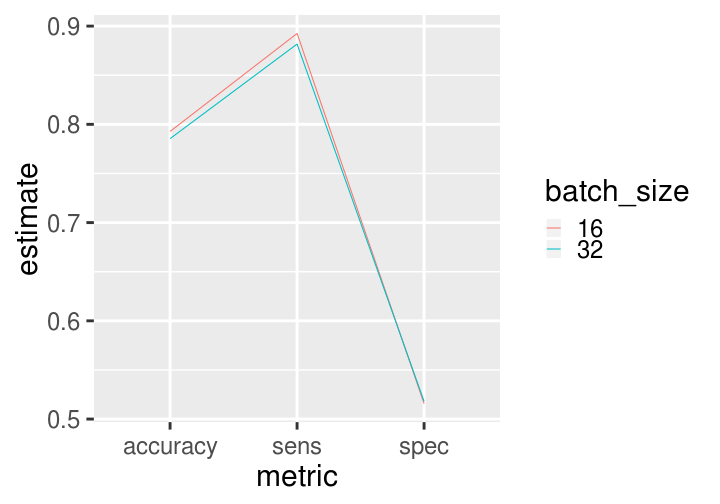
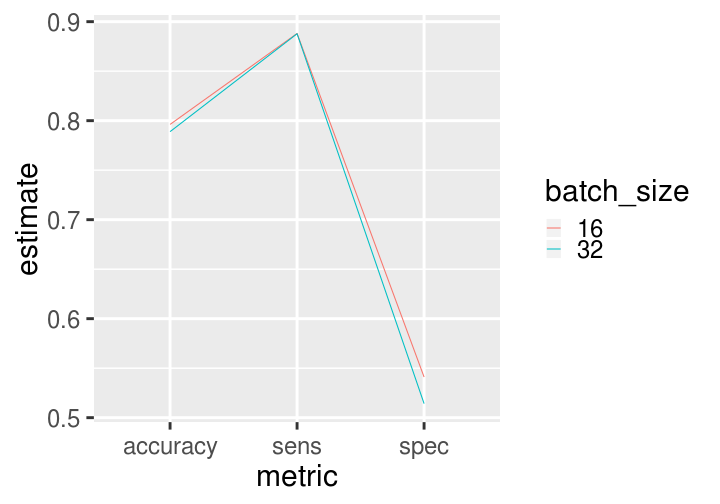
Use batch sizes 16, 32, and 64

diff --git a/index.html b/index.html
@@ -302,7 +302,7 @@ readd(comparison) # See also loadd()
 
 
 ```r
-*batch_sizes &lt;- c(16, 32, 256)
+*batch_sizes &lt;- c(16, 32, 64)
 
 plan &lt;- drake_plan(
   data = read_csv(file_in("data/customer_churn.csv")) %&gt;%
@@ -344,8 +344,8 @@ source("R/functions.R")
 *source("R/plan.R") # modified
 
 make(plan)
-## target model_256
-## target conf_256
+## target model_64
+## target conf_64
 ## target comparison
 ```
 
